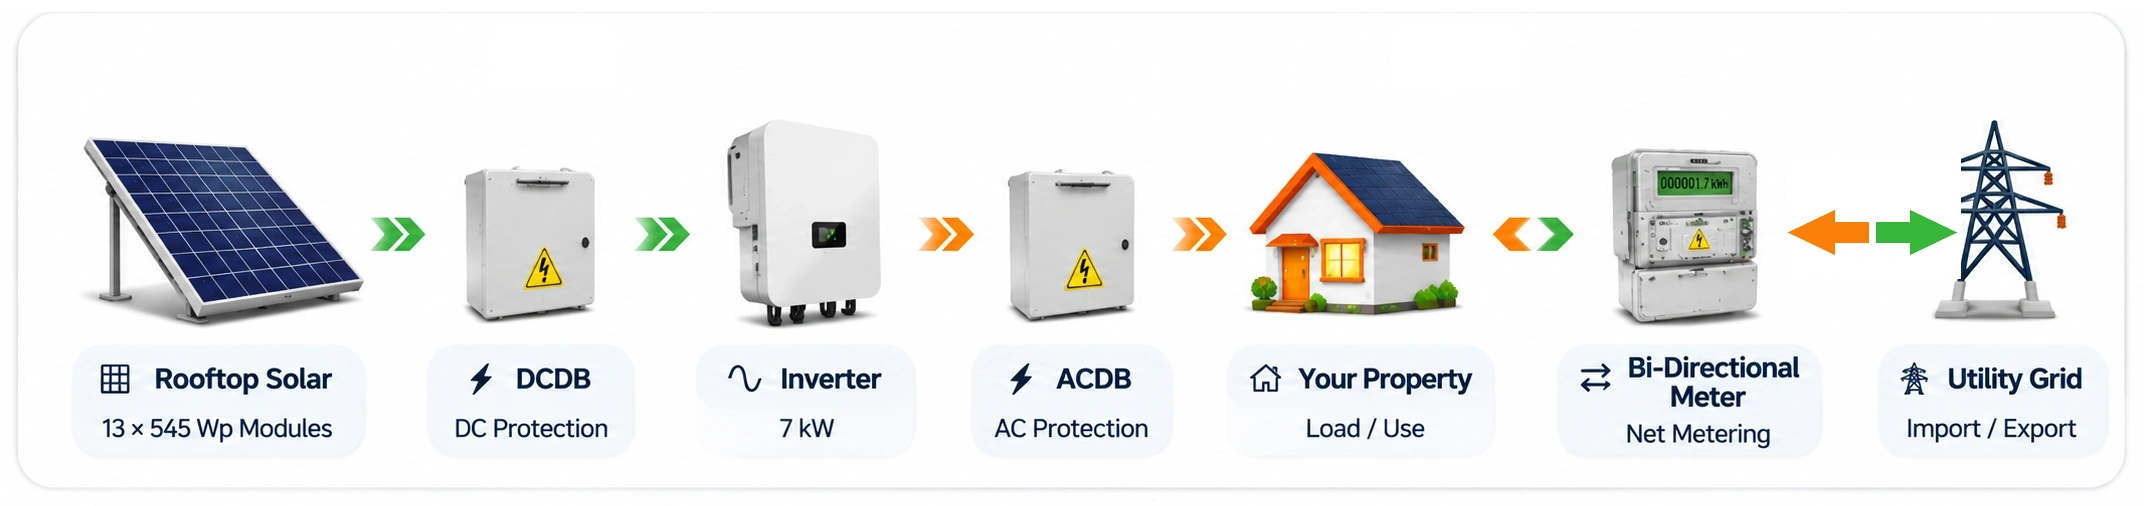
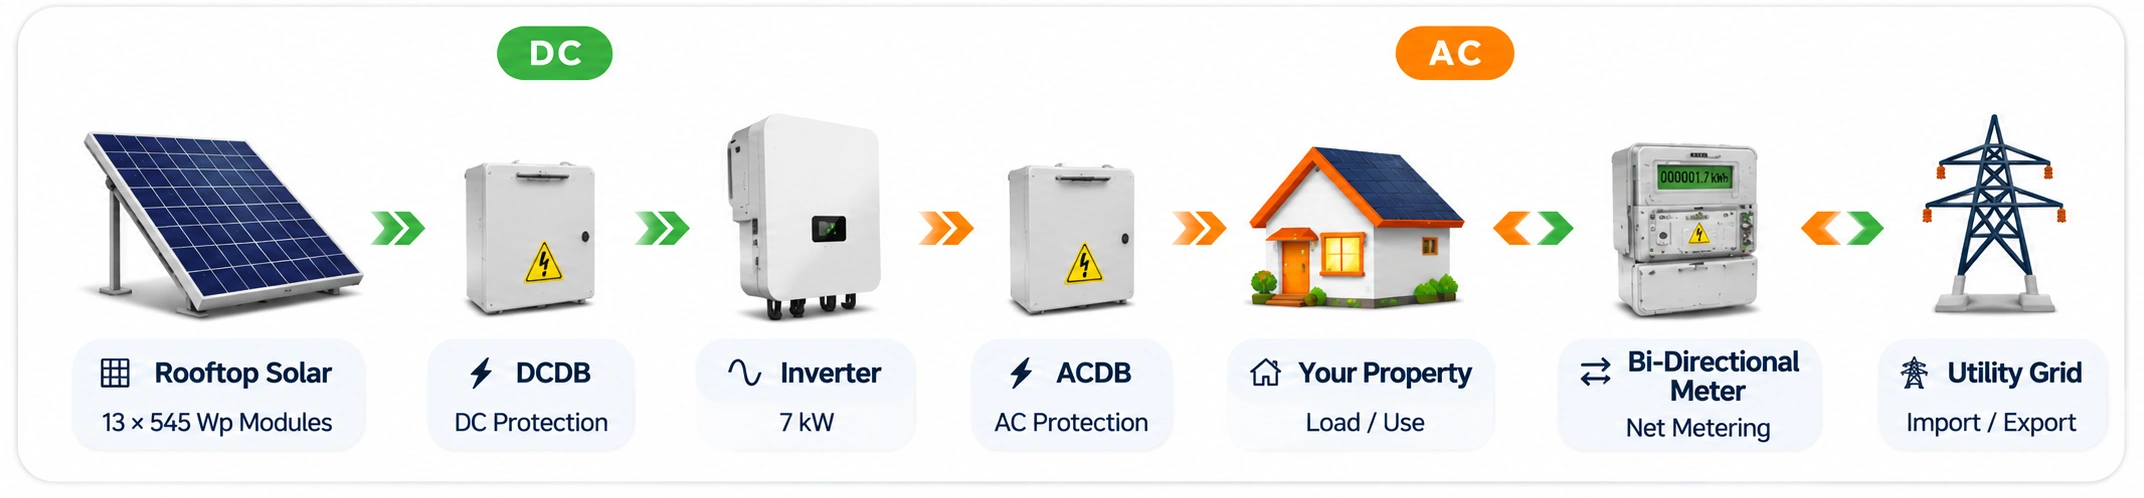
Page 5: use his chevrons and his horns - stop drawing over the render
Two things I broke by painting on the artwork, both now undone:

1. THE TOWER LOST ITS LEFT INSULATOR HORNS. Replacing the meter <-> grid link
   meant clearing a white rectangle over that area, and the rectangle was wide
   enough to wipe the horns on the left of the tower. The original never needed
   clearing: its link is already the chevron pair he is asking for - orange
   facing the meter, green facing the grid, diagonal ends - and it was sitting
   to the LEFT of the tower, not between the tower and the grid.

2. THE ARROWS. I drew block arrows, then a shaft with heads. His reference is a
   chevron pair, small, with diagonal ends. Since it is already in the render,
   the correct change was to remove my drawing rather than make a closer copy.

So the artwork is a plain crop of his PNG again (2144x498, from y=90 to keep the
ribbon out), with nothing painted into it.

The DC / AC pills keep the same lesson: they were CSS boxes approximating his
badges. They are now cut out of his own render (flow-pill-dc.webp /
flow-pill-ac.webp) and positioned over the two groups, so fill, weight and radius
are his.

qa/page56-marks.test.cjs: 39 checks, including three that probe the artwork's own
pixels - orange and green columns at the chevrons, and insulator horns on BOTH
sides of the tower - so painting over that area again fails the suite.

diff --git a/assets/css/proposal-v2.css b/assets/css/proposal-v2.css
@@ -119,15 +119,12 @@
 .pv2-solution .pv2-ov-box{margin-top:-1px;background:none;border:0;border-radius:0;box-shadow:none;padding:0;}
 .pv2-solution .pv2-ov-stack{position:relative;display:block;}
 .pv2-solution .pv2-ov-art{display:block;width:100%;height:auto;border-radius:12px;}
-/* The DC / AC pills, positioned against the artwork's own boxes so they hold
-   their place at any width. Outlined, in green and orange, per the reference. */
-.pv2-solution .pv2-pill{position:absolute;display:flex;align-items:center;justify-content:center;
-  width:3.6%;min-width:34px;height:8.4%;min-height:15px;
-  border:1.6px solid currentColor;border-radius:999px;background:#fff;
-  font:800 7.4px/1 'Poppins','Inter',sans-serif;letter-spacing:.03em;
-  transform:translate(-50%,-50%);}
-.pv2-solution .pv2-pill.is-dc{left:26.5%;top:20.5%;color:#1E9E63;}
-.pv2-solution .pv2-pill.is-ac{left:68.2%;top:20.5%;color:#F2811D;}
+/* The DC / AC pills, cut from the owner's own render so they are pixel-identical
+   to it, positioned as a percentage of the artwork so they hold at any width. */
+.pv2-solution .pv2-pill{position:absolute;transform:translate(-50%,-50%);
+  width:5.8%;height:auto;pointer-events:none;}
+.pv2-solution .pv2-pill.is-dc{left:26.2%;top:13%;}
+.pv2-solution .pv2-pill.is-ac{left:68.1%;top:13%;}
 .pv2 .pv2-flow{display:flex;align-items:flex-start;justify-content:space-between;}
 .pv2 .pv2-node{position:relative;flex:0 0 auto;width:66px;text-align:center;display:flex;flex-direction:column;align-items:center;}
 .pv2 .pv2-node.is-panel{width:98px;}.pv2 .pv2-node.is-house{width:76px;}

diff --git a/assets/js/proposal-v2.js b/assets/js/proposal-v2.js
@@ -133,8 +133,8 @@
      link he asked to improve is patched into the raster itself - it is artwork,
      not markup, so it cannot be overlaid. */
   const FLOW_MARKS =
-    '<span class="pv2-pill is-dc" aria-hidden="true">DC</span>' +
-    '<span class="pv2-pill is-ac" aria-hidden="true">AC</span>';
+    '<img class="pv2-pill is-dc" src="' + IMG + 'proposal/flow-pill-dc.webp" alt="" aria-hidden="true" decoding="sync">' +
+    '<img class="pv2-pill is-ac" src="' + IMG + 'proposal/flow-pill-ac.webp" alt="" aria-hidden="true" decoding="sync">';
   function overviewArt() {
     const alt = 'Solar to grid system overview';
     return '<span class="pv2-ov-stack">' +
